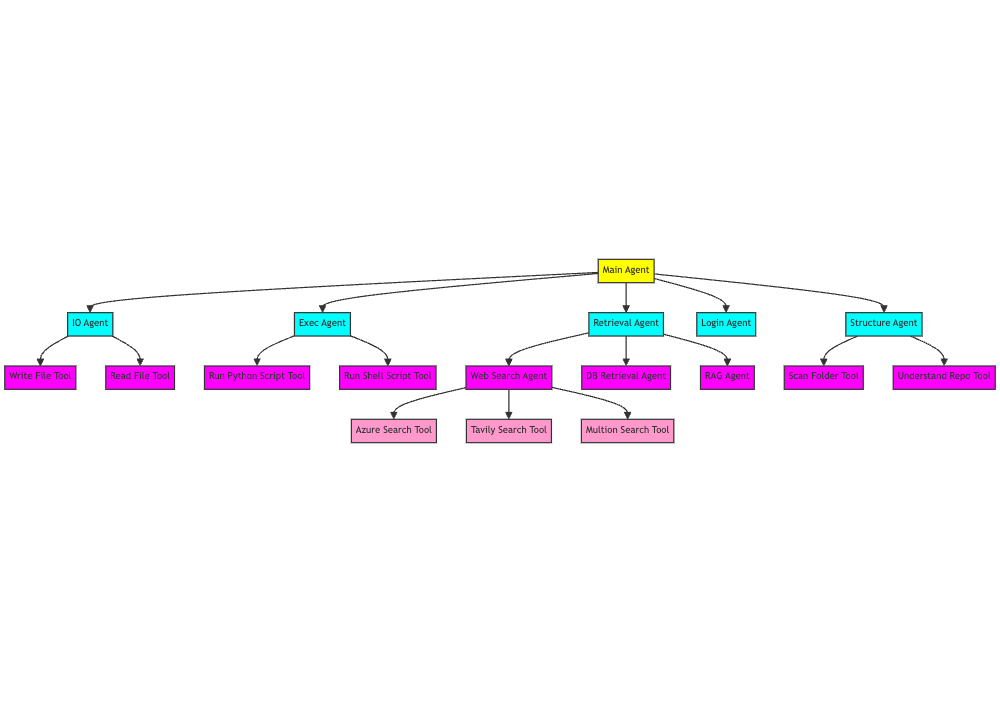
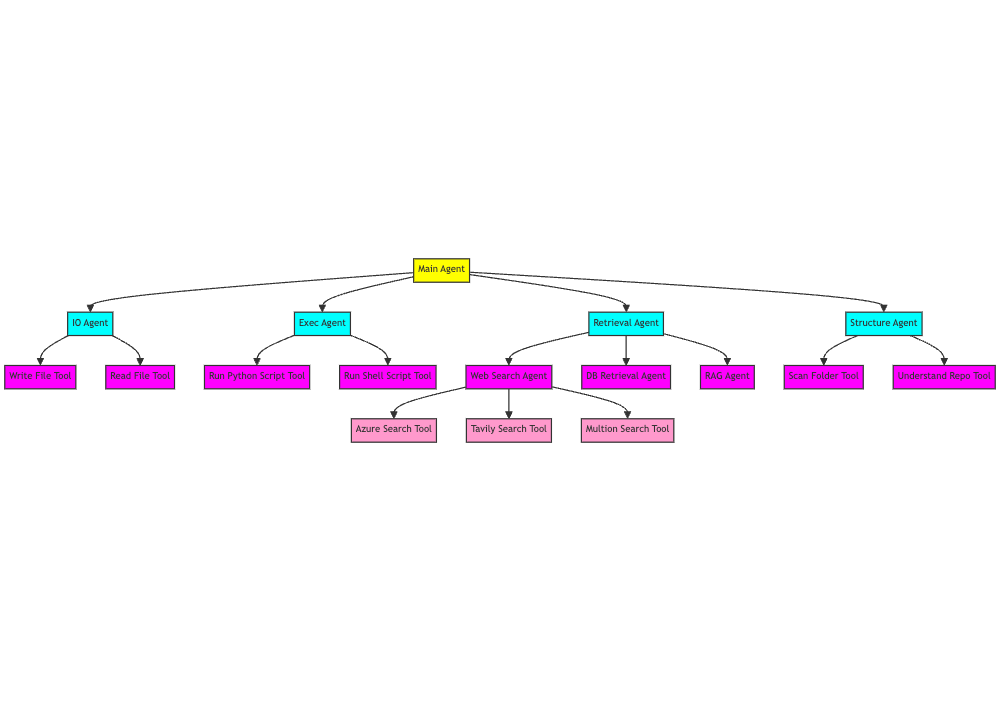
remove login agent

diff --git a/code/main.py b/code/main.py
@@ -41,7 +41,7 @@ from io_agent import use_io_agent
 from exec_agent import use_exec_agent
 # from db_retrieval_agent import use_db_retrieval_agent
 from retrieval_agent import use_retrieval_search_agent
-from login_agent import use_login_agent
+# from login_agent import use_login_agent
 
 def scan_folder(folder_path, depth=2):
     ignore_patterns = [".*", "__pycache__"]
@@ -140,25 +140,25 @@ tools = [
         }
       }
     },
-    {
-        "type": "function",
-        "function": {
-            "name": "use_login_agent",
-            "description": "Use a smart assistant to check whether login is successful.",
-            "parameters": {
-                "type": "object",
-                "properties": {
-                    "query": {
-                        "type": "string",
-                        "description": "The query or instruction for the login agent."
-                    }
-                },
-                "required": [
-                    "query"
-                ]
-            }
-        }
-    },
+    # {
+    #     "type": "function",
+    #     "function": {
+    #         "name": "use_login_agent",
+    #         "description": "Use a smart assistant to check whether login is successful.",
+    #         "parameters": {
+    #             "type": "object",
+    #             "properties": {
+    #                 "query": {
+    #                     "type": "string",
+    #                     "description": "The query or instruction for the login agent."
+    #                 }
+    #             },
+    #             "required": [
+    #                 "query"
+    #             ]
+    #         }
+    #     }
+    # },
 ]
 
 client = OpenAI()
@@ -170,7 +170,7 @@ available_tools = {
             "use_io_agent": use_io_agent,
             "use_exec_agent": use_exec_agent,
             # "use_db_retrieval_agent": use_db_retrieval_agent,
-            "use_login_agent": use_login_agent,
+            # "use_login_agent": use_login_agent,
         }
 
 

diff --git a/code/README.md b/code/README.md
@@ -1,0 +1,16 @@
+# Dining Table Brands Summary
+
+This document provides a summary of various brands of dining tables along with their key features.
+
+| Brand       | Description                                | Key Features                         | Price Range  |
+|-------------|--------------------------------------------|--------------------------------------|--------------|
+| IKEA        | Affordable and stylish furniture.          | Modular designs, sustainability      | $100 - $1000 |
+| Ashley      | Known for traditional and modern styles.   | Variety of shapes and sizes          | $200 - $2000 |
+| Sauder      | Focuses on ready-to-assemble tables.      | Space-saving designs, budget-friendly| $150 - $800  |
+| West Elm    | Contemporary and mid-century designs.      | High-quality materials, unique styles| $500 - $3000 |
+| Pottery Barn| Premium brand with a classic touch.       | Customizable options, durability     | $600 - $4000 |
+| Restoration Hardware | Luxurious and vintage-inspired furniture.| Heirloom quality, artisan craftsmanship | $1000 - $5000 |
+| CB2         | Modern and minimalist approach.            | Sleek designs, urban aesthetics      | $300 - $2000 |
+
+## Conclusion
+This table presents a brief overview of some of the most recognized brands in the dining table market, catering to a range of styles and budgets.
